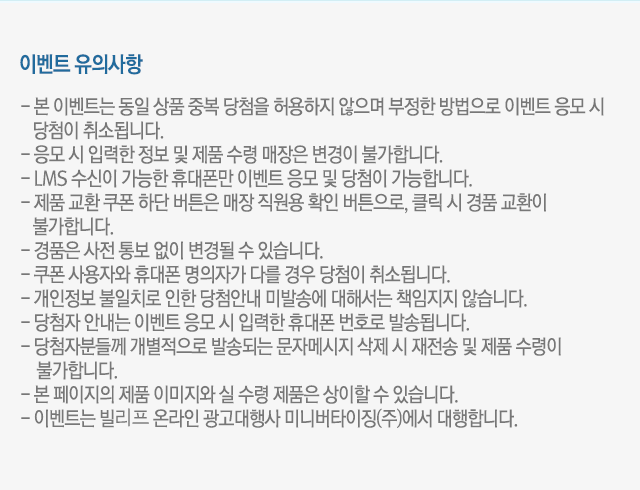
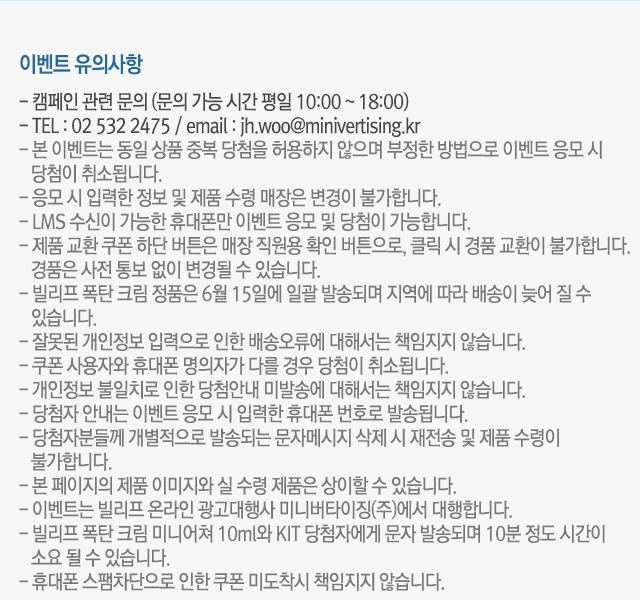
푸터 이미지 변경

Changed region(s): [[0.0312, 0.0918, 1.0, 1.0]]

diff --git a/PC/index.php b/PC/index.php
@@ -140,7 +140,7 @@
       </div>
     </div>
     <div class="footer">
-      <img src="images/txt_footer.png" width="924" height="99" alt=""/>
+      <img src="images/txt_footer.png" width="924" height="164" alt=""/>
     </div>
     <!--quickmenu-->
     <div class="quickmenu" id="quickmenu" style="position:fixed;right:20px;z-index:805;bottom:50px;">
